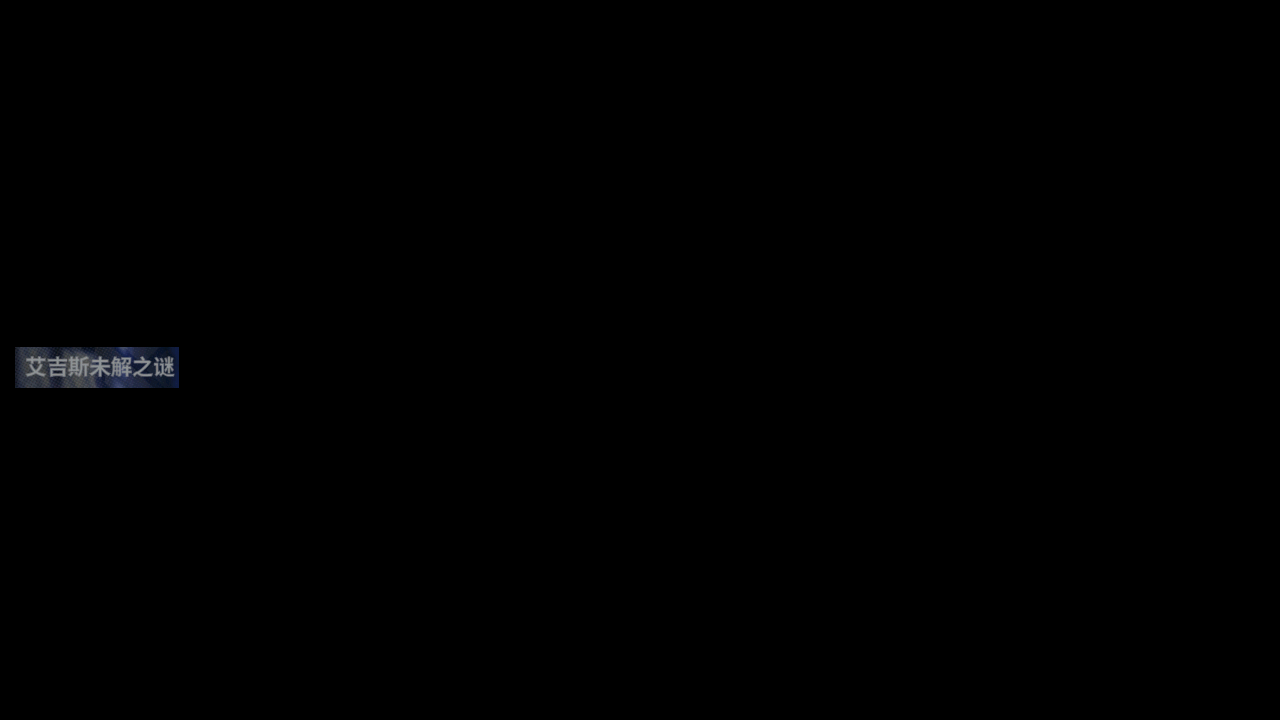
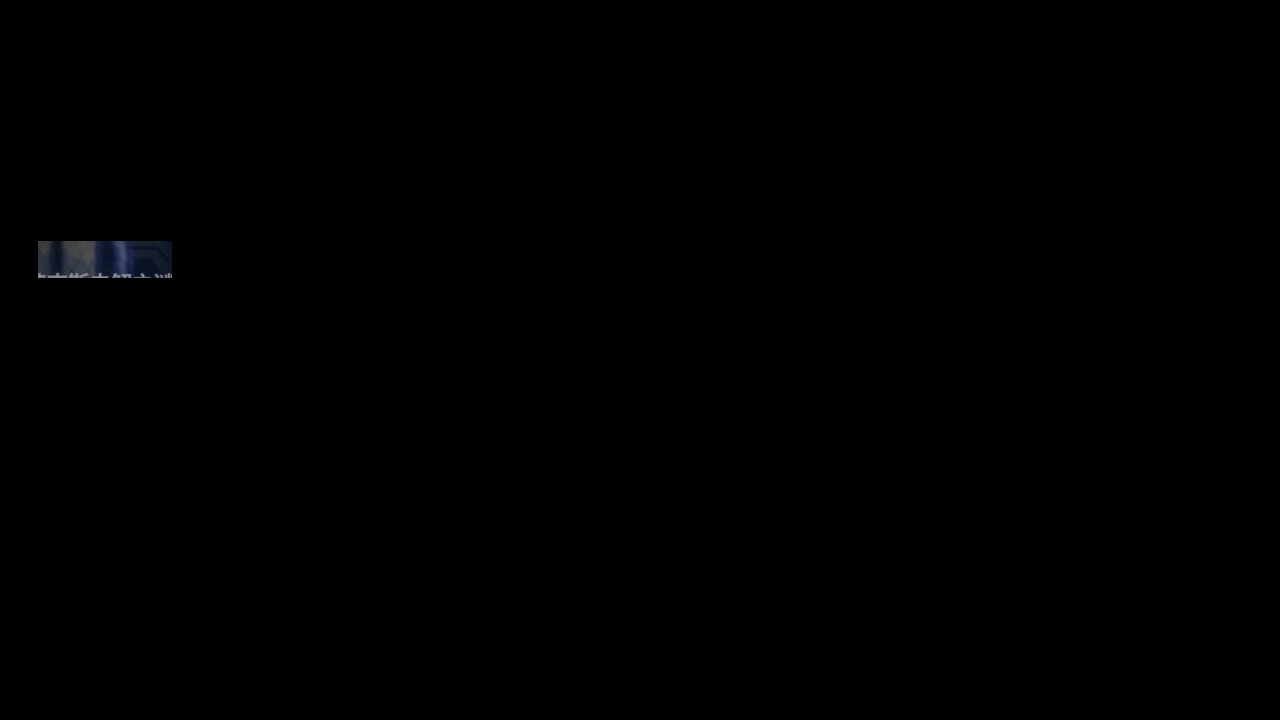
fix: 苍雾限时活动入口下移适配，活动任务改排核心制造之后 (v1.47.1)

Changed region(s): [[0.0, 0.4583, 0.1562, 0.55], [0.0312, 0.3361, 0.1562, 0.3972]]

diff --git a/module/hazeworld/hazeworldevent.py b/module/hazeworld/hazeworldevent.py
@@ -42,6 +42,27 @@ from module.logger import logger
 # 但开得越大越慢：64 个模板全屏扫一遍要 1 秒，外扩 60 像素只要 50 毫秒。
 CHAIN_OFFSET = 60
 
+# 个别按钮要单独放宽搜索余量。左列的活动入口是一竖条文字，位置随活动增减上下移动：
+# 2026-11-12 联合讨伐结束，新活动「怪怪惊魂夜」插到第一项，把「艾吉斯未解之迷」从
+# 第一项挤到第二项（下移约 110px），默认的 60 不够用。只在这条竖列里上下放宽、
+# 横向收紧，免得扫到页面中部的同名文字。
+CHAIN_OFFSETS = {
+    E_2_1: (24, 200),
+}
+
+
+def chain_offset(button):
+    """
+    Search margin of one chain button.
+
+    Args:
+        button (Button): Button of `GUIDE_CHAIN`.
+
+    Returns:
+        int or tuple: `(x, y)` margin, default `CHAIN_OFFSET`.
+    """
+    return CHAIN_OFFSETS.get(button, CHAIN_OFFSET)
+
 # 扫荡弹窗里「当前体力 ≫ 扣除后剩余」那一行的右侧数字。
 # 体力够时是白/黄字；不够时游戏把它标红（10:45 真机：右上 35/260、单场 42）。
 # 归一化 1280x720 实测：不足帧该区域红色像素 0.131，
@@ -244,7 +265,7 @@ class Hazeworldevent(HazeworldUI):
                     continue
                 if button.name in typed:
                     continue
-                if self.appear(button, offset=CHAIN_OFFSET):
+                if self.appear(button, offset=chain_offset(button)):
                     # 点完「开始扫荡」就交给结算等待，别再回链条里让常驻
                     # 主页键抢帧；E_7_1 若已直接出现也走同一套确认流程。
                     if button is E_6_2:
@@ -275,7 +296,7 @@ class Hazeworldevent(HazeworldUI):
                         started = True
                         quiet.limit = idle
                     # 等它从画面上消失：没了才说明这一步真的生效了。
-                    gone = self.wait_until_disappear(button, offset=CHAIN_OFFSET,
+                    gone = self.wait_until_disappear(button, offset=chain_offset(button),
                                                      timeout=4, settle=2)
                     if gone:
                         stubborn.pop(button.name, None)

diff --git a/module/hazeworld/assets.py b/module/hazeworld/assets.py
@@ -38,7 +38,7 @@ EXCHANGE_TAB_ELITE = Button(area={'hazeworld': (21, 209, 214, 266)}, color={'haz
 # is the elite one moved down by the row pitch.
 EXCHANGE_TAB_LOGISTICS = Button(area={'hazeworld': (21, 386, 214, 436)}, color={'hazeworld': (54, 44, 35)}, button={'hazeworld': (21, 386, 214, 436)}, file={'hazeworld': './assets/hazeworld/hazeworld/EXCHANGE_TAB_LOGISTICS.png'})
 E_1_1 = Button(area={'hazeworld': (1192, 184, 1219, 214)}, color={'hazeworld': (107, 101, 107)}, button={'hazeworld': (1184, 176, 1227, 222)}, file={'hazeworld': './assets/hazeworld/hazeworld/E_1_1.png'})
-E_2_1 = Button(area={'hazeworld': (15, 347, 179, 388)}, color={'hazeworld': (59, 64, 78)}, button={'hazeworld': (7, 339, 187, 396)}, file={'hazeworld': './assets/hazeworld/hazeworld/E_2_1.png'})
+E_2_1 = Button(area={'hazeworld': (38, 241, 172, 278)}, color={'hazeworld': (40, 46, 63)}, button={'hazeworld': (30, 233, 180, 286)}, file={'hazeworld': './assets/hazeworld/hazeworld/E_2_1.png'})
 E_3_1 = Button(area={'hazeworld': (1046, 563, 1202, 602)}, color={'hazeworld': (118, 124, 138)}, button={'hazeworld': (1038, 555, 1210, 610)}, file={'hazeworld': './assets/hazeworld/hazeworld/E_3_1.png'})
 E_4_1 = Button(area={'hazeworld': (730, 106, 1007, 177)}, color={'hazeworld': (65, 91, 100)}, button={'hazeworld': (722, 98, 1015, 185)}, file={'hazeworld': './assets/hazeworld/hazeworld/E_4_1.png'})
 E_5_1 = Button(area={'hazeworld': (837, 633, 922, 675)}, color={'hazeworld': (47, 47, 44)}, button={'hazeworld': (829, 625, 930, 683)}, file={'hazeworld': './assets/hazeworld/hazeworld/E_5_1.png'})

diff --git a/module/config/config_manual.py b/module/config/config_manual.py
@@ -61,9 +61,12 @@ class ManualConfig:
     # rewards and the pass points only fill up after the sorties - so they run
     # after 探索/军演/基地 instead of before them.
     # 嘟嘟脸的任务奖励同理，排在同游戏的最后（2026-11-11）。
+    #
+    # 苍雾的限时活动（艾吉斯未解之迷）排在「核心制造」后面，用户 2026-11-12 指定：
+    # 原来的位置在同游戏最前面，现在只在核心制造之后、通行证之前。
     SCHEDULER_PRIORITY = """
     Restart
-    > Hazeworldevent > HazeworldMail > HazeworldRoom > HazeworldSupport > HazeworldExercise > HazeworldFriend > HazeworldCore > HazeworldPass > HazeworldTask > HazeworldShop > HazeworldLogistics > HazeworldHonor
+    > HazeworldMail > HazeworldRoom > HazeworldSupport > HazeworldExercise > HazeworldFriend > HazeworldCore > Hazeworldevent > HazeworldPass > HazeworldTask > HazeworldShop > HazeworldLogistics > HazeworldHonor
     > LostswordTreasure > LostswordSummon > LostswordShop > LostswordMail > LostswordGuild > LostswordBoss > LostswordDungeon > LostswordCopy > LostswordEvent > LostswordStar > LostswordArena > LostswordMaze > LostswordMain > LostswordRound > LostswordAffection > LostswordTask > LostswordRedeem
     > BrowndustSummon > BrowndustHunt > BrowndustManager > BrowndustMail > BrowndustTask > BrowndustEvent > BrowndustPass
     > BrowndustRedeem
